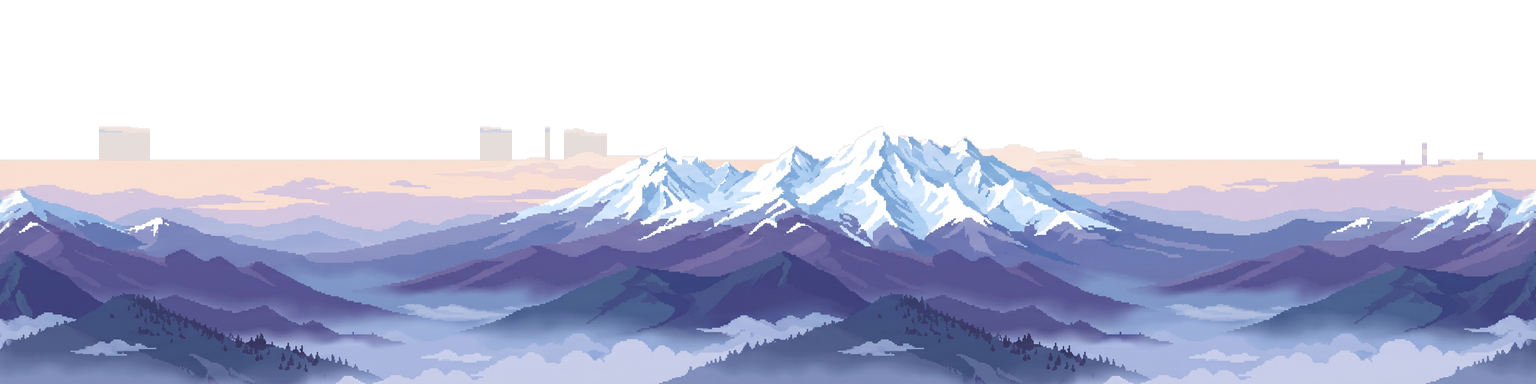
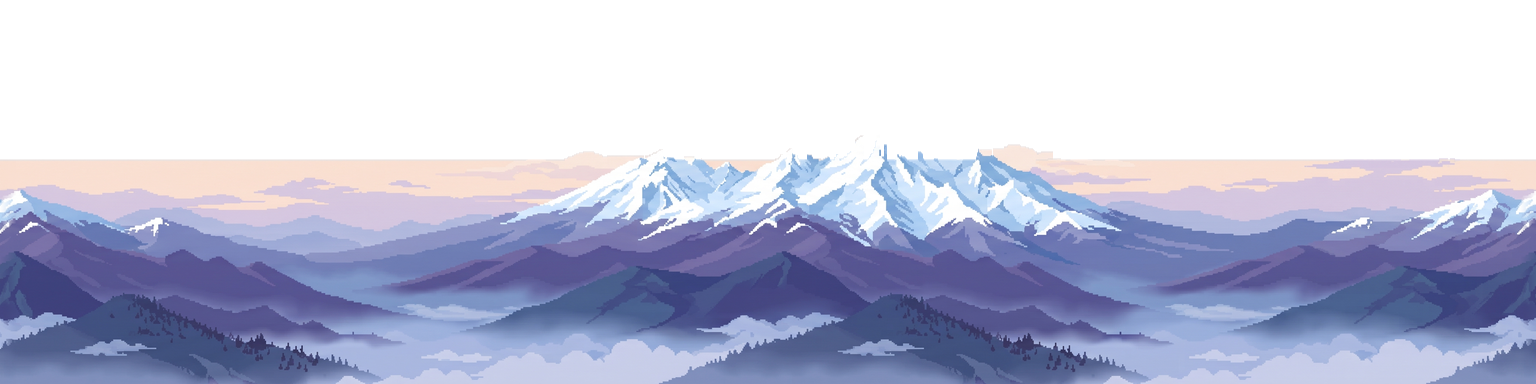
fix(scenic): remove rectangular sky block artifacts in Hokkaido mountain ridge and update cache version

diff --git a/src/components/ScenicJourneyModal.tsx b/src/components/ScenicJourneyModal.tsx
@@ -1194,8 +1194,8 @@ export const ScenicJourneyModal: React.FC<ScenicJourneyModalProps> = ({
           loadImg('/assets/scenic/landmark-kyoto-shrine-gate.png'),
           loadImg('/assets/scenic/encounter-tanuki-spirit.png'),
           loadImg('/assets/scenic/stamp-kyoto-arashiyama.png'),
-          loadImg('/assets/scenic/bg-mountains-hokkaido-snow.png?v=20261102b'),
-          loadImg('/assets/scenic/bg-hills-hokkaido-lavender.png?v=20261102b'),
+          loadImg('/assets/scenic/bg-mountains-hokkaido-snow.png?v=20261102c'),
+          loadImg('/assets/scenic/bg-hills-hokkaido-lavender.png?v=20261102c'),
           loadImg('/assets/scenic/landmark-hokkaido-barn-windmill.png'),
           loadImg('/assets/scenic/encounter-hokkaido-cow.png'),
           loadImg('/assets/scenic/stamp-hokkaido-biei.png'),

diff --git a/src/components/WorkoutPostcardModal.tsx b/src/components/WorkoutPostcardModal.tsx
@@ -96,7 +96,7 @@ function getOrLoadScenicAssets(): Promise<ScenicAssets> {
     });
   };
 
-  const v = '?v=20261102b';
+  const v = '?v=20261102c';
   assetLoadingPromise = Promise.all([
     loadImg(`/assets/scenic/runner-female-run.png${v}`),
     loadImg(`/assets/scenic/runner-female-idle.png${v}`),
